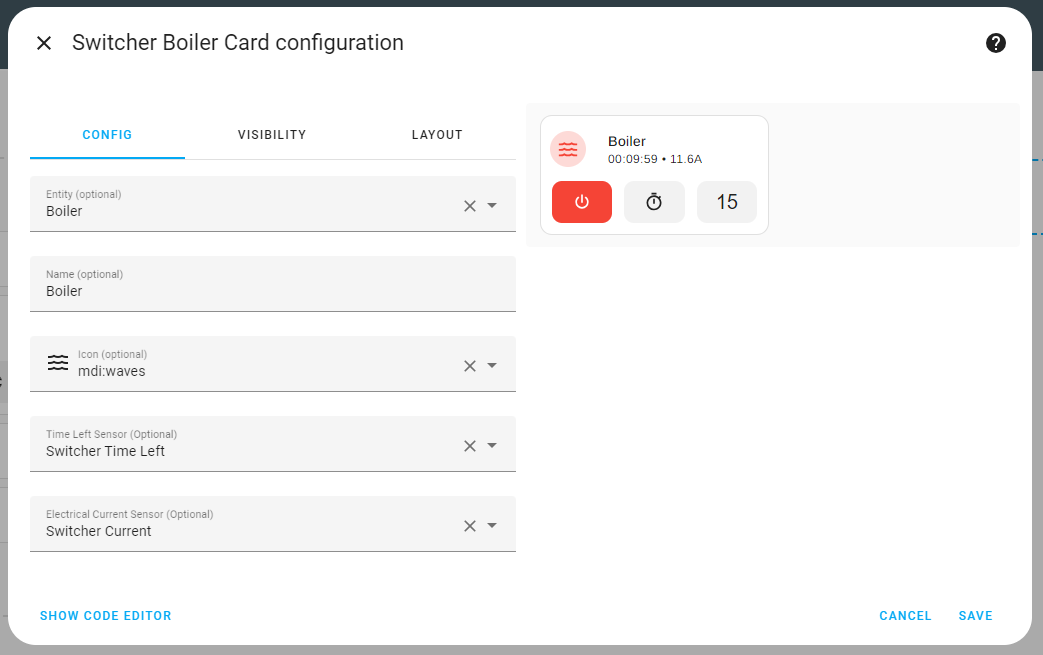
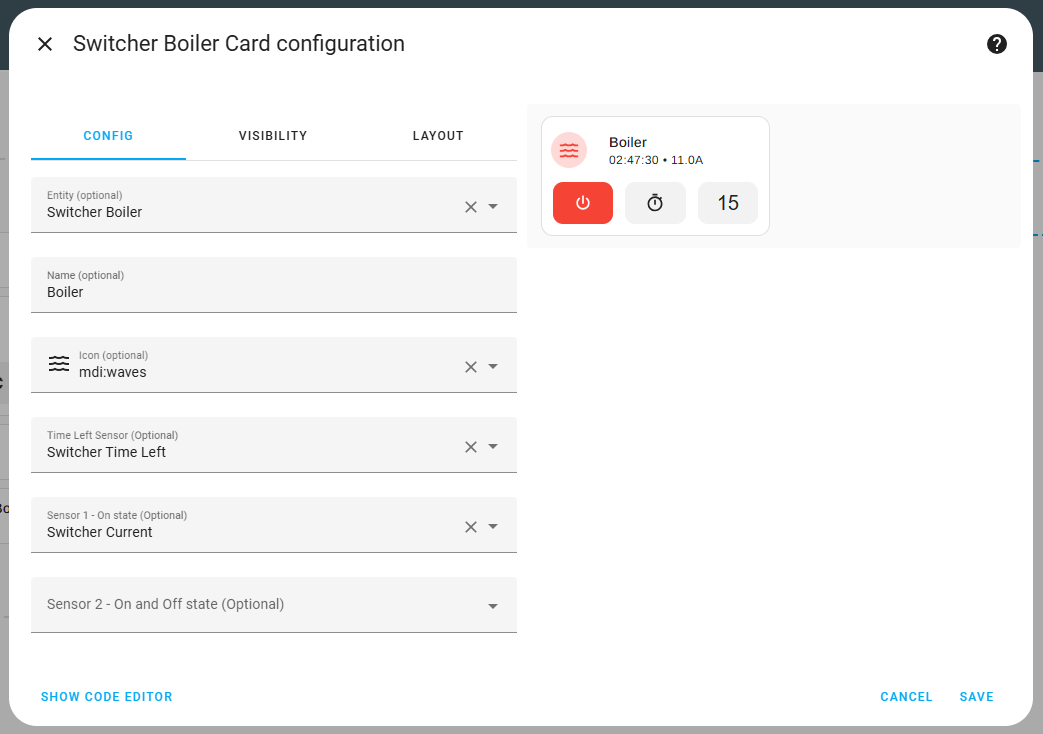
update sensors labels in editor

diff --git a/dist/switcher-boiler-card-editor.js b/dist/switcher-boiler-card-editor.js
@@ -61,9 +61,9 @@ class SwitcherBoilerCardEditor extends LitElement {
       case "time_left":
         return "Time Left Sensor (Optional)";
       case "sensor_1":
-        return "Sensor 1 (Optional)";
+        return "Sensor 1 - On state (Optional)";
       case "sensor_2":
-        return "Sensor 2 (Optional)";         
+        return "Sensor 2 - On and Off state (Optional)";         
       default:
         return `${this.hass.localize(
           `ui.panel.lovelace.editor.card.generic.${name}`
